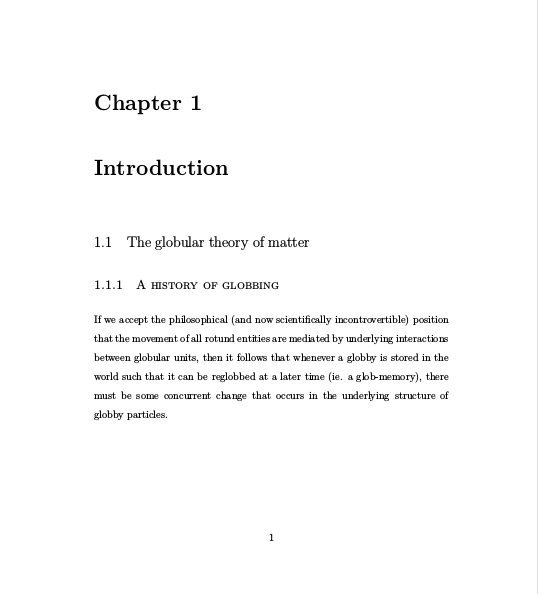
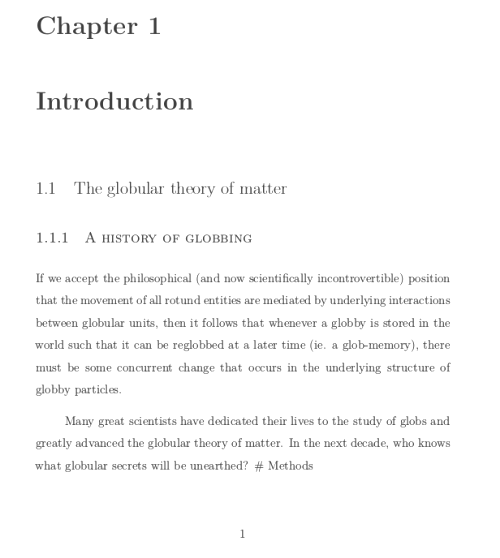
Made suggested corrections

diff --git a/lessons/pandoc_markdown/lesson.md b/lessons/pandoc_markdown/lesson.md
@@ -11,7 +11,7 @@ visible: true
  - **Authors**: Dano Morrison
  - **Research field**: Neuroscience
  - **Lesson topic**: How to use Pandoc and Markdown for writing scientific manuscripts
- - **Lesson content URL**: <https://github.com/UofTCoders/studyGroup/tree/gh-pages/lessons/pandoc_markdown>
+ - **Lesson content URL**: <httpss://github.com/UofTCoders/studyGroup/tree/gh-pages/lessons/pandoc_markdown>
 
 # Intro to Pandoc
 
@@ -26,7 +26,7 @@ Pandoc is a command line tool that you can use to automatically convert files fr
 
 # Intro to Markdown
 
-Markdown is the best way to write things for Pandoc, and probably the best way to write things for publishing to the web. If you haven't heard of it, it's a lightweight, shortened version of HTML that uses simplified tags like `* ~ - #` to format documents. It's mostly writing plain text, but with a little practice you can easily implement the most common types of text formatting, like headings, lists, links, images, etc. The veritable bible of Markdown is [Daring Fireball.](https://daringfireball.net/projects/markdown/)
+Markdown is the best way to write things for Pandoc, and probably the best way to write things for publishing to the web. If you haven't heard of it, it's a lightweight, shortened version of HTML that uses simplified tags like `* ~ - #` to format documents. It's mostly writing plain text, but with a little practice you can easily implement the most common types of text formatting, like headings, lists, links, images, etc. The veritable bible of Markdown is [Daring Fireball.](httpss://daringfireball.net/projects/markdown/)
 
 # The Value Proposition
 
@@ -39,6 +39,8 @@ With Markdown and Pandoc, you can write something that looks like this:
 
 ### A history of globbing
 If we accept the philosophical (and now scientifically incontrovertible) position that the movement of all rotund entities are mediated by underlying interactions between globular units, then it follows that whenever a globby is stored in the world such that it can be reglobbed at a later time (ie. a glob-memory), there must be some concurrent change that occurs in the underlying structure of globby particles.
+
+Many great scientists have dedicated their lives to the study of globs and greatly advanced the globular theory of matter. In the next decade, who knows what globular secrets will be unearthed?
 ~~~
 
 That can be converted into HTML like this:
@@ -54,7 +56,7 @@ and even converted into LaTeX so it looks like this:
 
 ![alt text](./simplelatexsample.png)
 
-The real power of Pandox, however, comes when, with style templates and a little extra formatting work, you're able to produce fully type set and personally styled documents with a markdown file and a command line.
+The real power of Pandoc, however, comes when, with style templates and a little extra formatting work, you're able to produce fully typeset and personally styled documents with a markdown file and a command line.
 
 ![alt text](./complexlatexsample.png)
 
@@ -62,11 +64,11 @@ Boom! Page numbers and everything!
 
 # Getting Started
 
-- Install [Pandoc](http://pandoc.org/installing.html)
-- Install LaTeX: [TeXLive (Linux)](http://www.tug.org/texlive/), [MacTeX (Mac)](http://www.tug.org/mactex/), [MikTeX (Windows)](https://miktex.org/)
+- Install [Pandoc](https://pandoc.org/installing.html)
+- Install LaTeX: [TeXLive (Linux)](https://www.tug.org/texlive/), [MacTeX (Mac)](https://www.tug.org/mactex/), [MikTeX (Windows)](https://miktex.org/)
 - Install XeTex?
 
-Whether you're doing something like `sudo apt-get pandoc && apt-get texlive` or `brew install pandoc && brew cask install mactex`, if you can run `pandoc -v` and `pdflatex -v` in a terminal, you're good to go.
+Whether you're doing something like `sudo apt-get install pandoc && apt-get install texlive` or `brew install pandoc && brew cask install mactex`, if you can run `pandoc -v` and `pdflatex -v` in a terminal, you're good to go.
 
 # Markdown
 
@@ -81,7 +83,7 @@ Whether you're doing something like `sudo apt-get pandoc && apt-get texlive` or 
 2. two
 3. three
 
-[example link](http://example.com/)
+[example link](https://example.com/)
 
 ![example image](/path/to/img.jpg)
 
@@ -138,25 +140,25 @@ Pretty \emph{cool} stuff
 ```
 
 That's sure better than writing all that stuff yourself! 
-You can calso go straight to pdf (if you have the right depencies installed) with
+You can also go straight to pdf (if you have the right dependencies installed) with
 `pandoc sample.md -s -o sample.pdf`
 
 You may have figured out that `-o` stands for 'output' and `-s` stands for 'standalone.' There's also a lot of other pandoc command modifiers that you can take a look at any time by running `pandoc -h`
 
-You can also combine multiple input files into one output files with the regular character `*`. 
+You can also combine multiple input files into one output files with the regular character `*` (it's not a special pandoc feature, but pandoc supports having multiple files thrown at from the terminal). 
 `-H` Will let you include other files as the header of whatever you're producing
 `-V` will let you pass variables (ie. fontsize, documentclass for LaTeX documents)
 
-[This manual](http://pandoc.org/MANUAL.pdf) will be helpful for understanding these advanced features.
+[This manual](https://pandoc.org/MANUAL.pdf) will be helpful for understanding these advanced features.
 
 # Advanced: Custom LaTeX templates for Pandoc
 Chances are, if you actually are trying to publish something in LaTeX, you're going to want to put your own style on things. It's not that hard to do with Pandoc, all it takes is:
-1. saving a {andoc LaTeX template somewhere
+1. saving a Pandoc LaTeX template somewhere
 2. edit that template the way you want
 3. tell pandoc to use that template in producing an output
 
 ## 1. Pandoc LaTeX Templates
-These aren't just regular LaTeX templates but Pandoc-specific templates that instruct Pandoc how to convert files into LaTex. Here's an [example of one](https://github.com/jgm/pandoc-templates/blob/master/default.latex)
+These aren't just regular LaTeX templates but Pandoc-specific templates that instruct Pandoc how to convert files into LaTeX. Here's an [example of one](https://github.com/jgm/pandoc-templates/blob/master/default.latex)
 
 ## 2. Editing the templates
 If you want to expand on what the template provides, you can go into it and change or add things, maybe specific fonts or packages you would like to use
